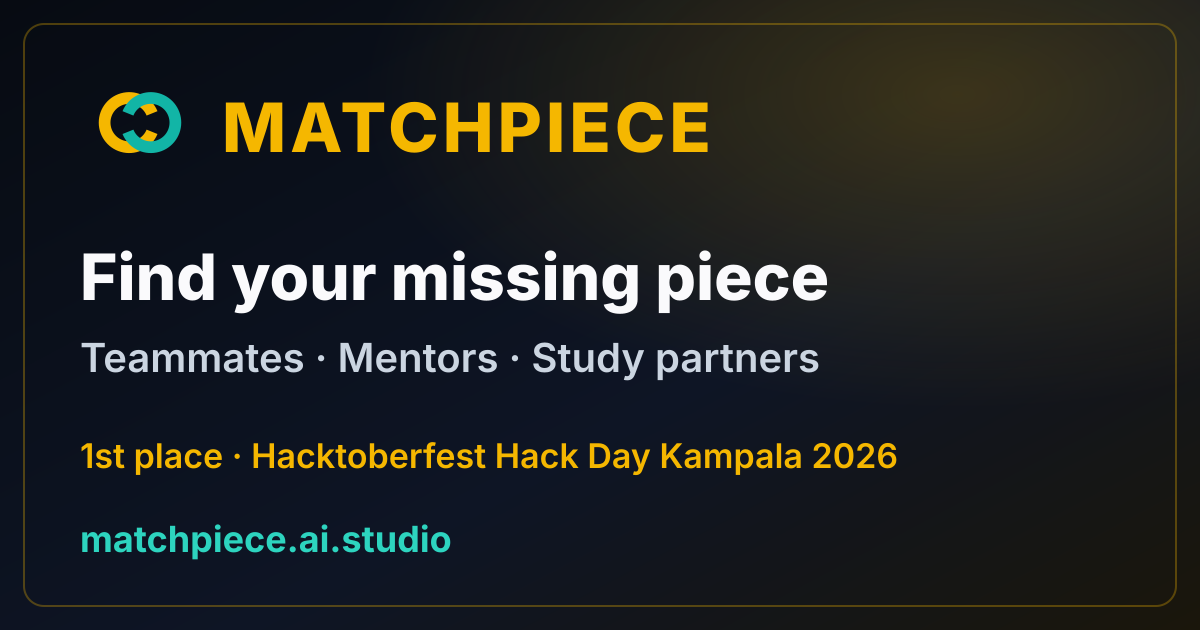
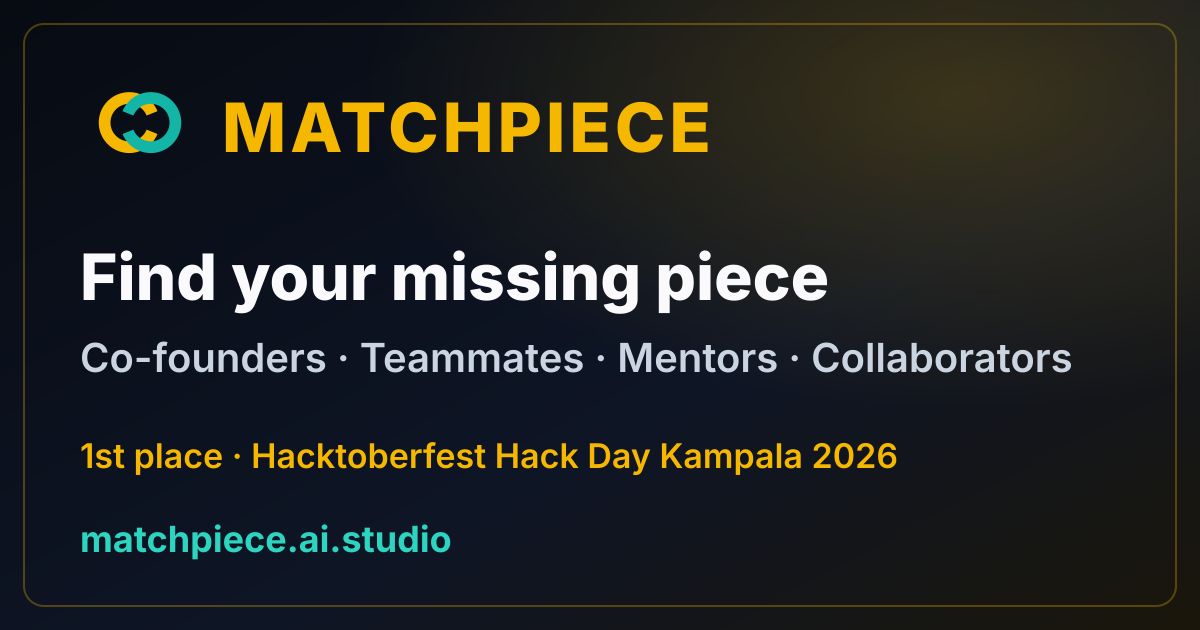
chore: release 1.13.5 - audience wording for everyone, contact window address, address check test fix

Changed region(s): [[0.0617, 0.5429, 0.8942, 0.6032]]

diff --git a/server.ts b/server.ts
@@ -20,7 +20,7 @@ import { validateTeamPayload, checkPhotoDataUrl, checkX, checkWebsite, whatsappL
 import { getEffectiveStartMs, getEffectiveEndMs, getOpportunityDeadlineMs, sortForTab, findRecentDuplicate } from './src/lib/eventTiming';
 import { withHttps } from './src/lib/links';
 import { markGroup } from './src/lib/brandMark';
-import { BRAND_NAME, BRAND_TITLE, BRAND_TAGLINE, BRAND_AUDIENCE, BRAND_AWARD_SHORT, EMAIL_FROM_NAME as BRAND_EMAIL_FROM_NAME, PRIMARY_HOST, PRIMARY_URL, applyBrandToHtml } from './src/lib/brand';
+import { BRAND_NAME, BRAND_TITLE, BRAND_TAGLINE, BRAND_AUDIENCE, BRAND_ROLES, BRAND_AWARD_SHORT, EMAIL_FROM_NAME as BRAND_EMAIL_FROM_NAME, PRIMARY_HOST, PRIMARY_URL, applyBrandToHtml } from './src/lib/brand';
 
 const __filename = fileURLToPath(import.meta.url);
 const __dirname = path.dirname(__filename);
@@ -2871,7 +2871,7 @@ export function buildGemmaPrompt(task: GemmaTask, data: any): string {
   switch (task) {
     case 'polish_profile': {
       const { name = '', role = '', headline = '', offers = '', needs = '', skills = [] } = data || {};
-      return `You are ${BRAND_NAME}'s profile assistant for the Kampala tech ecosystem.
+      return `You are ${BRAND_NAME}'s profile assistant. Members are ${BRAND_AUDIENCE}.
 Polish and structure this member's profile for peer learning and project collaboration.
 Raw inputs:
 - Name: ${name}
@@ -2893,7 +2893,7 @@ Return ONLY this JSON, no other text:
     case 'match': {
       const { me = {}, candidate = {}, candidates = [] } = data || {};
       if (Array.isArray(candidates) && candidates.length > 0) {
-        return `You are ${BRAND_NAME}'s matchmaking engine in Kampala (MUBS x EIIC).
+        return `You are ${BRAND_NAME}'s matchmaking engine. Members are ${BRAND_AUDIENCE}.
 Target Member (ME):
 Name: ${me.name || 'Member'}, Role: ${me.role || 'builder'}, Offers: ${me.offers || ''}, Needs: ${me.needs || ''}, Skills: ${(me.skills || []).join(', ')}
 
@@ -2911,7 +2911,7 @@ Pick top 3 best complementary partners for ME. Return ONLY a JSON array, no othe
   }
 ]`;
       }
-      return `You are ${BRAND_NAME}'s collaboration matchmaking engine in Kampala.
+      return `You are ${BRAND_NAME}'s collaboration matchmaking engine. Members are ${BRAND_AUDIENCE}.
 Analyze whether these two tech ecosystem members should connect.
 Member 1:
 Name: ${me.name || 'Member 1'}, Role: ${me.role || 'builder'}, Offers: ${me.offers || ''}, Needs: ${me.needs || ''}
@@ -2941,7 +2941,7 @@ Return ONLY a JSON array of tags:
       const candidateList = Array.isArray(candidates)
         ? candidates.slice(0, 30).map((c: any) => `ID: ${c.id}, Name: ${c.name}, Role: ${c.role}, Offers: ${c.offers}, Needs: ${c.needs}, Skills: ${(c.skills || []).join(', ')}`).join('\n')
         : '';
-      return `You are ${BRAND_NAME}'s semantic search assistant for the Kampala tech community.
+      return `You are ${BRAND_NAME}'s semantic search assistant. Members are ${BRAND_AUDIENCE}.
 Search query: "${query}"
 Evaluate community members:
 ${candidateList}
@@ -3341,7 +3341,7 @@ app.post('/api/ai/ask-kwegatta', askLimiter, async (req: Request, res: Response)
     institution: p.institution || ''
   }));
 
-  const prompt = `You are ${BRAND_NAME}'s intelligent matchmaking engine for Ugandan builders, creators, and students.
+  const prompt = `You are ${BRAND_NAME}'s intelligent matchmaking engine for ${BRAND_AUDIENCE}.
 A user asked: "${cleanQuery}".
 Based STRICTLY and ONLY on what members wrote in their profiles below, select up to 5 best matching members.
 
@@ -5094,7 +5094,7 @@ export function buildDefaultOgSvg(): string {
     ${markGroup(80, 64, 120)}
     <text x="222" y="152" fill="#F5B700" font-family="Inter, sans-serif" font-size="68" font-weight="800" letter-spacing="4">${e(BRAND_NAME.toUpperCase())}</text>
     <text x="80" y="300" fill="#FAFAFC" font-family="Inter, sans-serif" font-size="64" font-weight="800">${e(BRAND_TAGLINE)}</text>
-    <text x="80" y="372" fill="#CBD5E1" font-family="Inter, sans-serif" font-size="40" font-weight="600">${e(BRAND_AUDIENCE)}</text>
+    <text x="80" y="372" fill="#CBD5E1" font-family="Inter, sans-serif" font-size="40" font-weight="600">${e(BRAND_ROLES)}</text>
     <text x="80" y="468" fill="#F5B700" font-family="Inter, sans-serif" font-size="34" font-weight="600">${e(BRAND_AWARD_SHORT)}</text>
     <text x="80" y="552" fill="#2DD4BF" font-family="Inter, sans-serif" font-size="36" font-weight="700">${e(PRIMARY_HOST)}</text>
   </svg>`;
@@ -7068,7 +7068,7 @@ app.get('/api/events/:id', (req: Request, res: Response) => {
 
       peopleToMeet = otherAttendees.map((c: any) => {
         let score = 75;
-        let reason = 'Shares relevant collaboration interests in the Kampala network.';
+        let reason = 'Shares relevant collaboration interests.';
 
         const skills = (c.skills || []).concat(c.tags || []);
         const matchingSkills = skills.filter((s: string) => targetNeeds.includes(String(s).toLowerCase()));

diff --git a/tests/release-1-13-5.test.ts b/tests/release-1-13-5.test.ts
@@ -1,0 +1,68 @@
+// @vitest-environment node
+import { describe, it, expect } from 'vitest';
+import fs from 'fs';
+import path from 'path';
+import { buildDefaultOgSvg } from '../server';
+import { applyBrandToHtml, BRAND_AUDIENCE, BRAND_DESCRIPTION, BRAND_ROLES } from '../src/lib/brand';
+
+const ROOT = path.resolve(__dirname, '..');
+const read = (f: string) => fs.readFileSync(path.join(ROOT, f), 'utf8');
+
+/** "students" as the audience, or a place given as the audience. */
+const NARROW_AUDIENCE = /\bstudents?\b|uganda|east africa|kampala tech|campus/i;
+
+describe('1.13.5 audience wording', () => {
+  it('brand audience, roles and default description', () => {
+    expect(BRAND_AUDIENCE).toBe('builders, creators, professionals and students, anywhere in the world');
+    expect(BRAND_ROLES).toBe('Co-founders · Teammates · Mentors · Collaborators');
+    expect(BRAND_DESCRIPTION).toBe(
+      'Find the people you should build and learn with: co-founders, teammates, mentors and collaborators. 1st place at Hacktoberfest Hack Day Kampala 2026. Free and open source.'
+    );
+  });
+
+  it('no default meta or share text says "students" as the audience', () => {
+    const head = applyBrandToHtml(read('index.html'));
+    const meta = [...head.matchAll(/<meta [^>]*>|<title>[^<]*<\/title>|<script type="application\/ld\+json">[\s\S]*?<\/script>/g)]
+      .map(m => m[0])
+      .join('\n');
+    expect(meta).toContain(BRAND_DESCRIPTION);
+    expect(meta).not.toMatch(NARROW_AUDIENCE);
+    expect(meta).not.toMatch(/study partners/i);
+    const manifest = JSON.parse(read('public/manifest.webmanifest'));
+    expect(manifest.description).toBe(BRAND_DESCRIPTION);
+    expect(JSON.parse(read('metadata.json')).description).not.toMatch(NARROW_AUDIENCE);
+    expect(JSON.parse(read('package.json')).description).toContain('builders, creators, professionals and students anywhere in the world');
+  });
+
+  it('the default share image uses the roles line, not study partners', () => {
+    const svg = buildDefaultOgSvg();
+    expect(svg).toContain(`>${BRAND_ROLES}<`);
+    expect(svg).not.toMatch(/study partners/i);
+    expect(svg).not.toMatch(NARROW_AUDIENCE);
+  });
+
+  it('About page and home hero use the brand audience string', () => {
+    const about = read('src/components/AboutView.tsx');
+    expect(about).toContain('{BRAND_NAME} matches {BRAND_AUDIENCE} by what they need');
+    expect(about).not.toMatch(/matches students/);
+    const hero = read('src/components/LivingNetworkHero.tsx');
+    expect(hero).toContain('co-founders, teammates, mentors and collaborators. For {BRAND_AUDIENCE}.');
+  });
+
+  it('AI prompts describe members with the brand audience, not one city or country', () => {
+    const server = read('server.ts');
+    expect(server).not.toMatch(/for the Kampala tech (ecosystem|community)|matchmaking engine in Kampala|for Ugandan builders/);
+    expect((server.match(/\$\{BRAND_AUDIENCE\}/g) || []).length).toBeGreaterThanOrEqual(5);
+  });
+
+  it('empty states do not address classmates or students only', () => {
+    expect(read('src/components/MatchesView.tsx')).not.toMatch(/classmates|collaborators, students, and hackathon/);
+    expect(read('src/components/LearnView.tsx')).not.toMatch(/As more attendees join/);
+  });
+
+  it('README opens with the worldwide audience', () => {
+    const intro = read('README.md').split('\n').find(l => l.startsWith('Matchpiece helps'))!;
+    expect(intro).toContain('builders, creators, professionals and students, anywhere in the world');
+    expect(intro).not.toMatch(/^Matchpiece helps students/);
+  });
+});

diff --git a/src/components/MatchesView.tsx b/src/components/MatchesView.tsx
@@ -289,7 +289,7 @@ export const MatchesView: React.FC<MatchesViewProps> = ({
           <div className="space-y-2 max-w-md mx-auto">
             <h3 className="font-bold text-base text-[var(--fg)]">Few members yet · Pioneer cohort</h3>
             <p className="text-xs text-[var(--fg-muted)] leading-relaxed">
-              You are among the first to join {BRAND_NAME}! As classmates and builders join with their skills and project needs, Gemma 4 will automatically surface your top collaborative matches here.
+              You are among the first to join {BRAND_NAME}! As more people join with their skills and project needs, Gemma 4 will automatically surface your top collaborative matches here.
             </p>
           </div>
 
@@ -301,7 +301,7 @@ export const MatchesView: React.FC<MatchesViewProps> = ({
             </div>
             <ol className="text-xs text-[var(--fg-muted)] space-y-2 pl-4 list-decimal leading-relaxed">
               <li>
-                <strong className="text-[var(--fg)]">Invite people</strong>: Share your personal link with collaborators, students, and hackathon teammates.
+                <strong className="text-[var(--fg)]">Invite people</strong>: Share your personal link with collaborators, co-workers, friends and teammates.
               </li>
               <li>
                 <strong className="text-[var(--fg)]">Instant discovery</strong>: When they complete their profile, Gemma 4 evaluates what you offer vs what they need.
@@ -355,7 +355,7 @@ export const MatchesView: React.FC<MatchesViewProps> = ({
                 )}
 
                 <p className="text-xs text-[var(--fg-muted)]">
-                  Scan this QR code or share your link to invite team members and classmates.
+                  Scan this QR code or share your link to invite teammates and collaborators.
                 </p>
 
                 <div className="flex gap-2">

diff --git a/src/components/AboutView.tsx b/src/components/AboutView.tsx
@@ -20,7 +20,7 @@ import { useEventPhotos } from '../hooks/useEventPhotos';
 import { useTeam } from '../hooks/useTeam';
 import { HEADER_IMAGES } from '../lib/headerImages';
 import { TeamGrid } from './TeamGrid';
-import { BRAND_NAME, BRAND_FORMERLY, AWARD_LINE, REPO_URL } from '../lib/brand';
+import { BRAND_NAME, BRAND_FORMERLY, BRAND_AUDIENCE, AWARD_LINE, REPO_URL } from '../lib/brand';
 
 interface AboutViewProps {
   onNavigateHome: () => void;
@@ -130,7 +130,7 @@ export const AboutView: React.FC<AboutViewProps> = ({ onNavigateHome, isSignedIn
               Find the people you should build and learn with.
             </h1>
             <p className="max-w-2xl text-base sm:text-xl text-white/90 leading-relaxed text-balance">
-              {BRAND_NAME} matches students and builders by what they need and what they offer.
+              {BRAND_NAME} matches {BRAND_AUDIENCE} by what they need and what they offer.
             </p>
             <div className="flex flex-wrap items-center gap-3 pt-1">
               <button
@@ -164,7 +164,7 @@ export const AboutView: React.FC<AboutViewProps> = ({ onNavigateHome, isSignedIn
             The right people never meet.
           </h2>
           <p className="text-sm sm:text-base text-[var(--fg-muted)] leading-relaxed">
-            At hackathons, campuses and meetups, a developer and the founder who needs them sit two desks apart and never speak. Networking still depends on luck and on the friends you arrived with.
+            At hackathons, meetups, offices and online communities, a developer and the founder who needs them sit two desks apart and never speak. Networking still depends on luck and on the friends you arrived with.
           </p>
         </div>
         <div className="p-6 sm:p-8 rounded-2xl bg-[var(--bg-subtle)] border border-[var(--card-border)] space-y-3">

diff --git a/tests/release-1-13-4.test.ts b/tests/release-1-13-4.test.ts
@@ -176,7 +176,7 @@ describe('1.13.4 photo caching headers', () => {
 
   it('the service worker never answers /api/avatar/* from its cache', () => {
     const sw = fs.readFileSync(path.join(ROOT, 'public/sw.js'), 'utf8');
-    expect(sw).toContain("const CACHE_NAME = 'matchpiece-1.13.4';");
+    expect(sw).toContain("const CACHE_NAME = 'matchpiece-1.13.5';");
     const fetchHandler = sw.slice(sw.indexOf("addEventListener('fetch'"));
     const apiSkip = fetchHandler.indexOf("url.pathname.startsWith('/api/')");
     expect(apiSkip).toBeGreaterThan(-1);
@@ -216,6 +216,7 @@ describe('1.13.4 contact emails', () => {
     const hits = execSync('git ls-files', { cwd: ROOT, encoding: 'utf8' })
       .split('\n')
       .filter(f => f && !/\.(png|jpg|jpeg|webp|gif|ico|woff2?|ttf|pdf)$/i.test(f))
+      .filter(f => path.resolve(ROOT, f) !== __filename)
       .filter(f => fs.existsSync(path.join(ROOT, f)))
       .filter(f => fs.readFileSync(path.join(ROOT, f), 'utf8').includes('kwegatta' + '.org'));
     expect(hits).toEqual([]);
@@ -226,6 +227,12 @@ describe('1.13.4 contact emails', () => {
       expect(fs.readFileSync(path.join(ROOT, f), 'utf8')).toContain(CONTACT_EMAIL);
     }
     expect(fs.readFileSync(path.join(ROOT, 'src/components/PrivacyView.tsx'), 'utf8')).toContain('CONTACT_EMAIL');
+  });
+
+  it('Contact modal uses the contact address', () => {
+    const src = fs.readFileSync(path.join(ROOT, 'src/components/ContactModal.tsx'), 'utf8');
+    expect(src).toContain('const email = CONTACT_EMAIL;');
+    expect(src).not.toMatch(/@gmail\.com/);
   });
 });
 

diff --git a/tests/kwegatta.test.ts b/tests/kwegatta.test.ts
@@ -341,13 +341,13 @@ describe('Member-Submitted Events & Approval Permissions', () => {
 });
 
 describe('Service Worker & Cache-Control Configuration (PWA v1.5.2)', () => {
-  it('public/sw.js specifies CACHE_NAME as matchpiece-1.13.4 and handles cache strategies correctly', async () => {
+  it('public/sw.js specifies CACHE_NAME as matchpiece-1.13.5 and handles cache strategies correctly', async () => {
     const fs = await import('fs');
     const path = await import('path');
     const swContent = fs.readFileSync(path.join(process.cwd(), 'public', 'sw.js'), 'utf-8');
 
-    // 1. Cache name includes version matchpiece-1.13.4
-    expect(swContent).toContain("CACHE_NAME = 'matchpiece-1.13.4'");
+    // 1. Cache name includes version matchpiece-1.13.5
+    expect(swContent).toContain("CACHE_NAME = 'matchpiece-1.13.5'");
 
     // 2. Skip waiting and clients claim are preserved
     expect(swContent).toContain('self.skipWaiting()');
@@ -6320,8 +6320,8 @@ describe('Release 1.5.0 Features', () => {
         const swCacheName = match![1];
 
         expect(swCacheName).toBe(`matchpiece-${pkg.version}`);
-        expect(pkg.version).toBe('1.13.4');
-        expect(swCacheName).toBe('matchpiece-1.13.4');
+        expect(pkg.version).toBe('1.13.5');
+        expect(swCacheName).toBe('matchpiece-1.13.5');
       });
 
       it('d) OG_RENDER_VERSION busts image cache', () => {

diff --git a/tests/release-1-13-2.test.ts b/tests/release-1-13-2.test.ts
@@ -229,7 +229,7 @@ describe('In-app routes', () => {
 });
 
 describe('Default share card and meta', () => {
-  const DESCRIPTION = 'Find teammates, mentors and study partners. 1st place at Hacktoberfest Hack Day Kampala 2026. Free and open source.';
+  const DESCRIPTION = 'Find the people you should build and learn with: co-founders, teammates, mentors and collaborators. 1st place at Hacktoberfest Hack Day Kampala 2026. Free and open source.';
 
   it('default meta has no "Kwegatta" and no "matchmaking", and uses the new description', async () => {
     expect(BRAND_DESCRIPTION).toBe(DESCRIPTION);
@@ -246,7 +246,7 @@ describe('Default share card and meta', () => {
 
   it('the default share image has the new lines, large text and no pills', () => {
     const svg = buildDefaultOgSvg();
-    for (const line of ['>MATCHPIECE<', '>Find your missing piece<', '>Teammates · Mentors · Study partners<', '>1st place · Hacktoberfest Hack Day Kampala 2026<', '>matchpiece.ai.studio<']) {
+    for (const line of ['>MATCHPIECE<', '>Find your missing piece<', '>Co-founders · Teammates · Mentors · Collaborators<', '>1st place · Hacktoberfest Hack Day Kampala 2026<', '>matchpiece.ai.studio<']) {
       expect(svg).toContain(line);
     }
     expect(svg).not.toMatch(/Kwegatta|matchmaking|Open Source/i);

diff --git a/src/components/LivingNetworkHero.tsx b/src/components/LivingNetworkHero.tsx
@@ -13,7 +13,7 @@ import { Profile } from '../types';
 import { getInitials, MIN_MEMBERS_FOR_STATS } from '../utils';
 import { useEventPhotos } from '../hooks/useEventPhotos';
 import { useTeam } from '../hooks/useTeam';
-import { BRAND_NAME, BRAND_FORMERLY, REPO_URL } from '../lib/brand';
+import { BRAND_NAME, BRAND_FORMERLY, BRAND_AUDIENCE, REPO_URL } from '../lib/brand';
 
 export interface HeroProps {
   profiles: Profile[];
@@ -132,7 +132,7 @@ export const HeroSection: React.FC<HeroProps> = ({
               Find the people you should build and learn with.
             </h1>
             <p className="text-base sm:text-lg text-[var(--fg-muted)] leading-relaxed font-normal max-w-2xl text-balance">
-              Say what you need and what you offer. In about a minute, {BRAND_NAME} matches you with people who complete you: co-founders, teammates, mentors and study partners.
+              Say what you need and what you offer. In about a minute, {BRAND_NAME} matches you with people who complete you: co-founders, teammates, mentors and collaborators. For {BRAND_AUDIENCE}.
             </p>
           </div>
 

diff --git a/src/lib/brand.ts b/src/lib/brand.ts
@@ -8,9 +8,11 @@ export const BRAND_TAGLINE = 'Find your missing piece';
 export const BRAND_FORMERLY = 'Kwegatta';
 /** Default description for search results and share previews. */
 export const BRAND_DESCRIPTION =
-  'Find teammates, mentors and study partners. 1st place at Hacktoberfest Hack Day Kampala 2026. Free and open source.';
+  'Find the people you should build and learn with: co-founders, teammates, mentors and collaborators. 1st place at Hacktoberfest Hack Day Kampala 2026. Free and open source.';
+/** Who Matchpiece is for. Not limited to students or to one country. */
+export const BRAND_AUDIENCE = 'builders, creators, professionals and students, anywhere in the world';
 /** Who you meet here; replaces "matchmaking" in share text so it is not read as a dating app. */
-export const BRAND_AUDIENCE = 'Teammates · Mentors · Study partners';
+export const BRAND_ROLES = 'Co-founders · Teammates · Mentors · Collaborators';
 export const BRAND_AWARD_SHORT = '1st place · Hacktoberfest Hack Day Kampala 2026';
 
 /** "Matchpiece: Find your missing piece" */

diff --git a/src/components/ContactModal.tsx b/src/components/ContactModal.tsx
@@ -1,7 +1,7 @@
 import React, { useState } from 'react';
 import { X, Mail, Check, Copy, ExternalLink, Github, MapPin } from 'lucide-react';
 import { useDialogA11y } from '../hooks/useDialogA11y';
-import { BRAND_NAME, REPO_URL } from '../lib/brand';
+import { BRAND_NAME, CONTACT_EMAIL, REPO_URL } from '../lib/brand';
 
 interface ContactModalProps {
   isOpen: boolean;
@@ -11,7 +11,7 @@ interface ContactModalProps {
 export const ContactModal: React.FC<ContactModalProps> = ({ isOpen, onClose }) => {
   const [copied, setCopied] = useState(false);
   const dialogRef = useDialogA11y<HTMLDivElement>(isOpen, onClose);
-  const email = 'saifuddin.ai.dev@gmail.com';
+  const email = CONTACT_EMAIL;
 
   if (!isOpen) return null;
 

diff --git a/src/components/LearnView.tsx b/src/components/LearnView.tsx
@@ -202,7 +202,7 @@ export const LearnView: React.FC<LearnViewProps> = ({
         <div className="py-16 text-center space-y-2 border border-dashed border-[var(--card-border)] rounded-xl">
           <h3 className="font-semibold text-sm text-[var(--fg)]">No other learners in the room yet</h3>
           <p className="text-xs text-[var(--fg-muted)]">
-            As more attendees join, your complementary mentor and study partner will appear here automatically.
+            As more people join, your complementary mentor and study partner will appear here automatically.
           </p>
         </div>
       ) : (

diff --git a/src/components/PeopleView.tsx b/src/components/PeopleView.tsx
@@ -210,7 +210,7 @@ export const PeopleView: React.FC<PeopleViewProps> = ({
 
   return (
     <div className="kw-container space-y-6 md:space-y-10">
-      <PageHeader title="People" subtitle="Find builders, mentors and study partners." image={HEADER_IMAGES.people} />
+      <PageHeader title="People" subtitle="Find co-founders, teammates, mentors, collaborators or study partners." image={HEADER_IMAGES.people} />
 
       {/* Ask Kwegatta AI Search Panel */}
       <div className="kw-card bg-[var(--card)] border border-[var(--gold)]/30 rounded-2xl p-5 sm:p-6 shadow-xl space-y-4">
